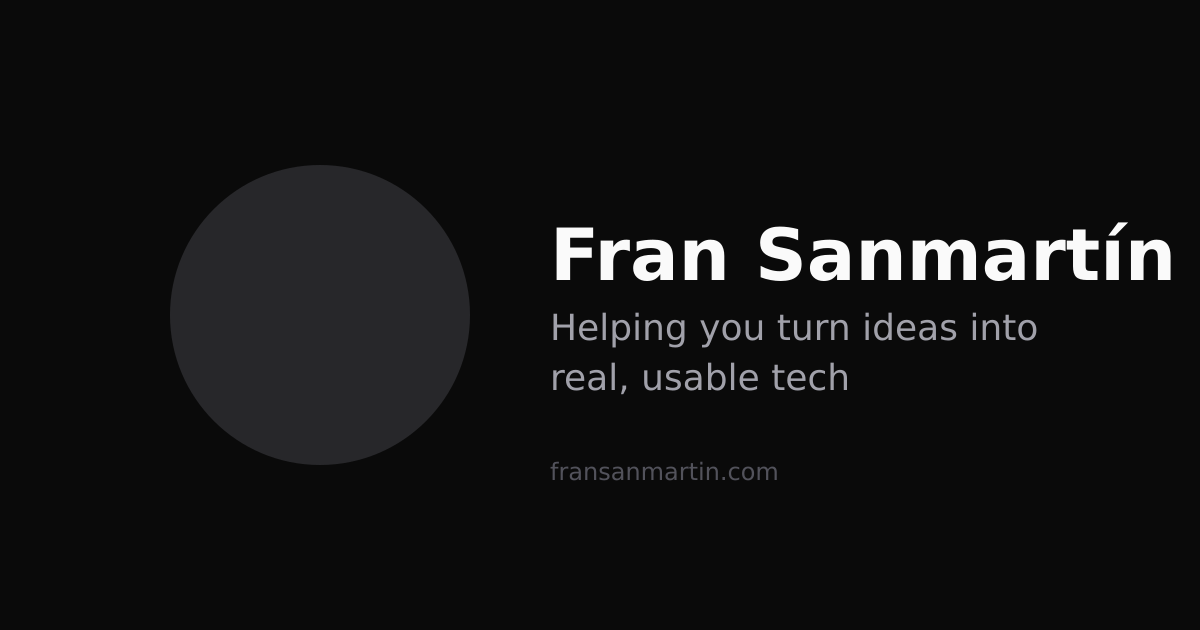
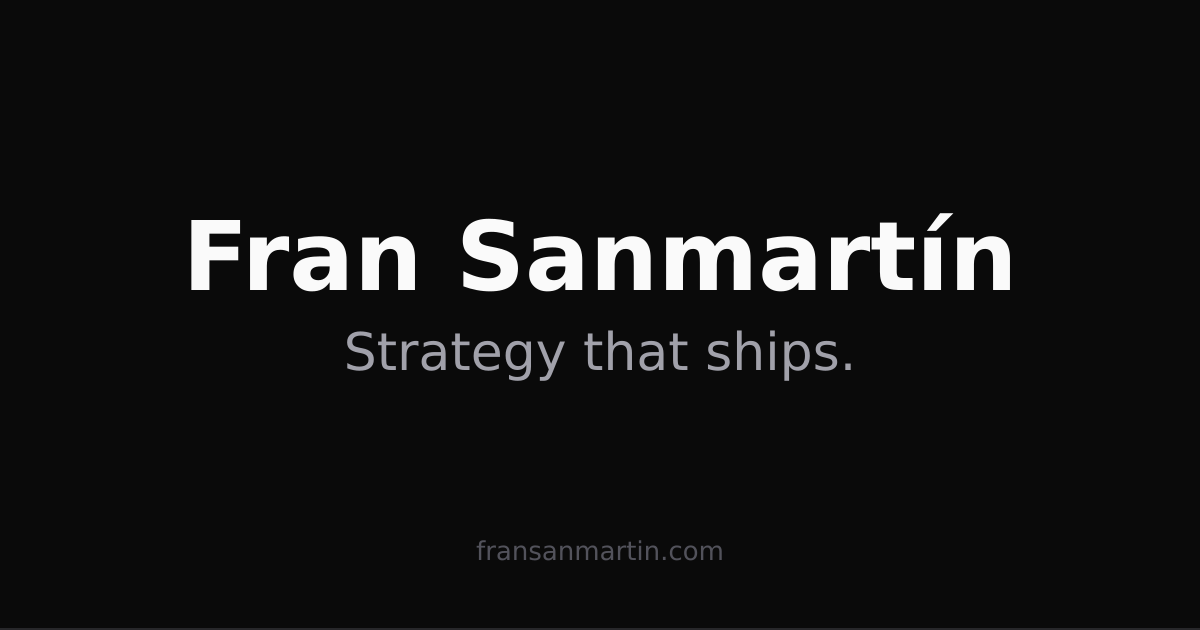
feat(ux): Hero photo below text on narrow viewports + refresh OG image
Hero responsive iteration:
- Section now uses flex-col-reverse on mobile (<md), so the textual
  content (h1, tagline, pitch, CTA) renders above the photo. The
  photo follows after the CTA. md:flex-row at >=768px reverts to the
  desktop layout (photo left, content right) via DOM order.
- Rationale: on narrow vertical viewports, the message hits faster
  before the visitor scrolls past the photo to find the CTA.

OG image (public/og.png) regenerated with the current tagline:
- "Fran Sanmartín" + "Strategy that ships." + "fransanmartin.com"
- Centered layout on dark zinc-950 background, no fake portrait
  circle (placeholder photo no longer needed — real photo lives in
  fran.jpg). 1200×630 PNG, ~37 KB.
- Still a placeholder until/unless a designed OG card replaces it.

Production build: 102 KB shared + 7 KB page = 126 KB First Load JS,
8 static pages prerendered.

diff --git a/src/components/sections/Hero.tsx b/src/components/sections/Hero.tsx
@@ -16,7 +16,7 @@ export function Hero() {
   return (
     <section
       aria-labelledby="hero-heading"
-      className="mx-auto flex w-full max-w-6xl flex-col items-center gap-10 px-6 py-16 md:flex-row md:items-center md:gap-12 md:py-20 lg:gap-16 lg:py-24"
+      className="mx-auto flex w-full max-w-6xl flex-col-reverse items-center gap-10 px-6 py-16 md:flex-row md:items-center md:gap-12 md:py-20 lg:gap-16 lg:py-24"
     >
       <div className="w-full max-w-sm shrink-0 md:w-2/5 lg:w-1/2">
         <Image
